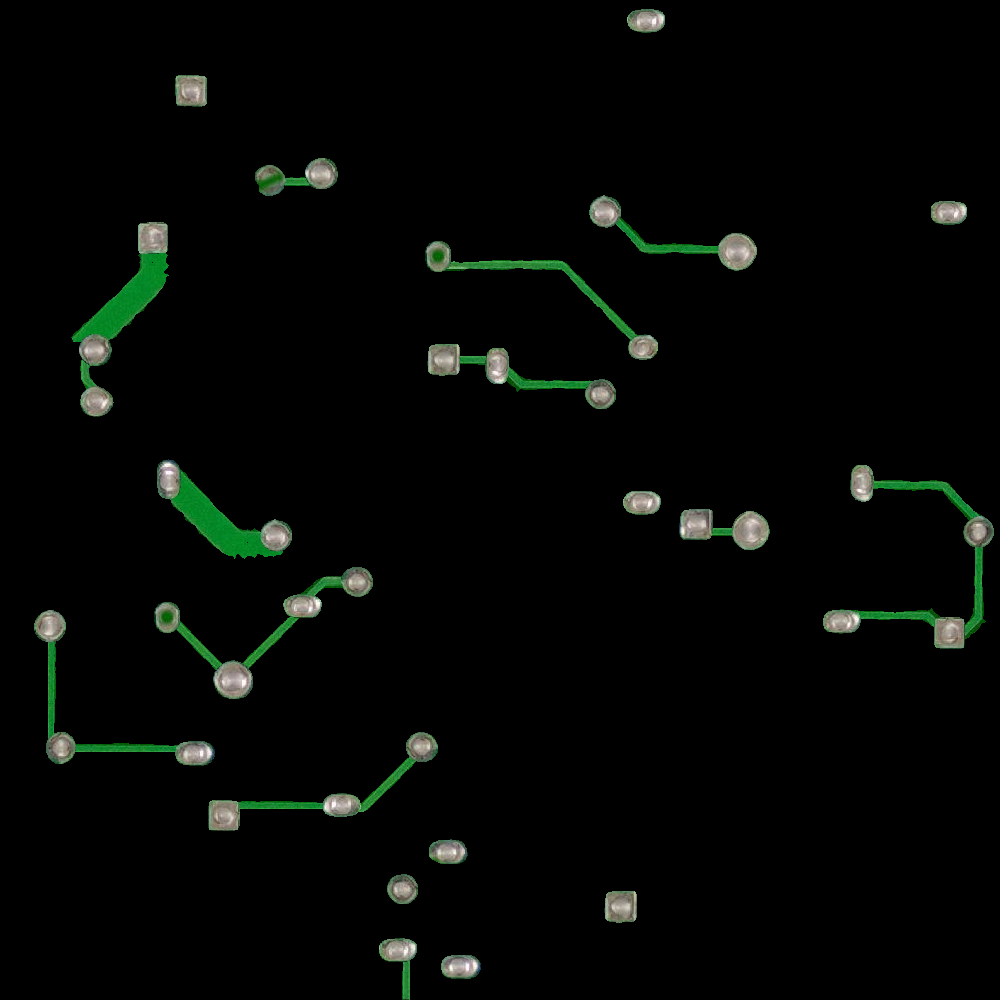
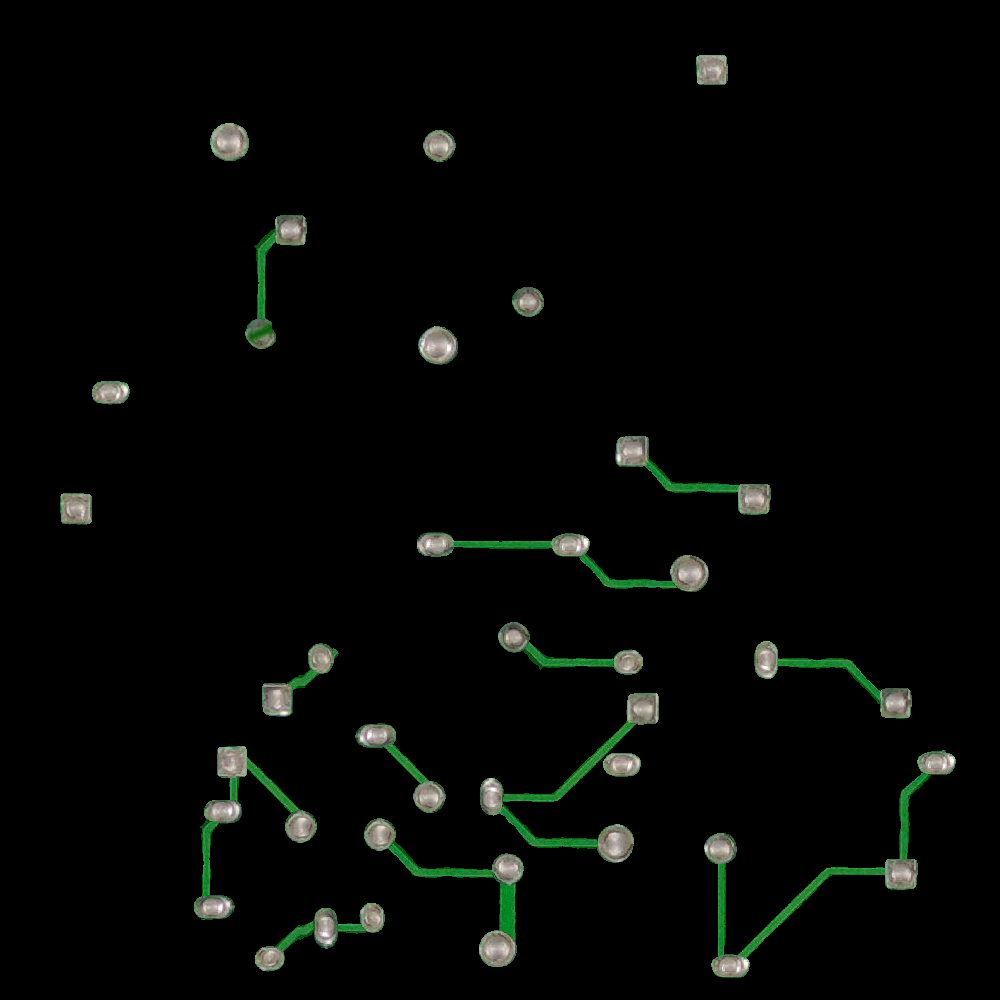
fixed padding

diff --git a/placement_engine.py b/placement_engine.py
@@ -122,6 +122,25 @@ def _bbox_from_mask(mask: np.ndarray):
     return xs.min(), ys.min(), xs.max(), ys.max()  # x1,y1,x2,y2
 
 
+def _fits_inside_edge_padding(mask: np.ndarray, canvas_shape: tuple[int, int], edge_padding: int) -> bool:
+    padding = max(0, int(edge_padding))
+    if padding <= 0:
+        return cv2.countNonZero(mask) > 0
+
+    bbox = _bbox_from_mask(mask)
+    if bbox is None:
+        return False
+
+    x1, y1, x2, y2 = bbox
+    h, w = canvas_shape
+    return (
+        x1 >= padding and
+        y1 >= padding and
+        x2 <= (w - 1 - padding) and
+        y2 <= (h - 1 - padding)
+    )
+
+
 def _ensure_pad_attach_cache(pad: PadInstance):
     if getattr(pad, "_attach_cache_ready", False):
         return
@@ -176,13 +195,16 @@ def place_pad_random(
     padding: int = 10,
     min_asset_distance: int = 5,
     max_tries: int = 50):
-    
+    edge_padding = max(0, int(padding))
+    if canvas.w - edge_padding <= edge_padding or canvas.h - edge_padding <= edge_padding:
+        return None
+
     for _ in range(max_tries):
         # angle = random.choice([0, 90, 180, 270])
         angle = 0
 
-        tx = np.random.randint(padding, canvas.w - padding)
-        ty = np.random.randint(padding, canvas.h - padding)
+        tx = np.random.randint(edge_padding, canvas.w - edge_padding)
+        ty = np.random.randint(edge_padding, canvas.h - edge_padding)
 
         mask_world, M = transform_mask(
             pad_asset.mask,
@@ -206,6 +228,9 @@ def place_pad_random(
             raise ValueError(f"Unsupported mask dimensionality: {mask_world.ndim}D (shape: {mask_world.shape})")
 
         mask_world_u8 = (mask_world > 0).astype(np.uint8)
+        if not _fits_inside_edge_padding(mask_world_u8, (canvas.h, canvas.w), edge_padding):
+            continue
+
         if check_collision(canvas.occupied_mask, mask_world_u8):
             continue
 
@@ -263,7 +288,8 @@ def place_pad_attached_to_open_end(
     next_pad_id: int,
     angles=(0, 90, 180, 270),
     max_attempts: int = 20,
-    require_touch: bool = True
+    require_touch: bool = True,
+    edge_padding: int = 0,
 ):
     """
     Пытается разместить pad так, чтобы он приклеился к open_end (концу существующего трейса).
@@ -317,6 +343,9 @@ def place_pad_attached_to_open_end(
         pad_mask_world_u8 = (pad_mask_world > 0).astype(np.uint8)  # 0/1
 
         if cv2.countNonZero(pad_mask_world_u8) == 0:
+            continue
+
+        if not _fits_inside_edge_padding(pad_mask_world_u8, canvas_shape, edge_padding):
             continue
 
         # 1) Требуем контакт с трейсом (иначе можно “приклеить” рядом)
@@ -519,7 +548,8 @@ def place_trace_attached_to_specific_pad(
     angles=(0, 90, 180, 270),
     max_attempts: int = 20,
     require_touch: bool = True,
-    pad_boundary_mix: float = 0.65
+    pad_boundary_mix: float = 0.65,
+    edge_padding: int = 0,
 ):
     """
     Пытается приклеить trace_asset к конкретному pad_instance.
@@ -566,6 +596,9 @@ def place_trace_attached_to_specific_pad(
             continue
         mask_world_u8 = (mask_world > 0).astype(np.uint8)
         if cv2.countNonZero(mask_world_u8) == 0:
+            continue
+
+        if not _fits_inside_edge_padding(mask_world_u8, canvas_shape, edge_padding):
             continue
 
         # endpoints world
@@ -628,6 +661,7 @@ def place_trace_attached_to_pad(
     angles=(0, 90, 180, 270),
     max_attempts_pad_pick: int = 20,
     max_attempts_attach: int = 20,
+    edge_padding: int = 0,
 ):
     """
     Старая семантика: сам выбирает валидный pad и пытается к нему приклеить trace.
@@ -641,7 +675,8 @@ def place_trace_attached_to_pad(
             trace_asset,
             pad,
             angles=angles,
-            max_attempts=max_attempts_attach
+            max_attempts=max_attempts_attach,
+            edge_padding=edge_padding,
         )
         if inst is not None:
             return inst, ep_idx

diff --git a/generator.py b/generator.py
@@ -54,7 +54,8 @@ def generate_layout_by_coverage(
         pad=p0,
         open_ends=open_ends,
         next_trace_id=next_trace_id,
-        require_touch=True
+        require_touch=True,
+        edge_padding=padding,
     )
     if t0 is not None:
         traces_by_id[t0.id] = t0
@@ -95,7 +96,8 @@ def generate_layout_by_coverage(
                 next_pad_id=next_pad_id,
                 angles=(0, 90, 180, 270),
                 max_attempts=20,
-                require_touch=True
+                require_touch=True,
+                edge_padding=padding,
             )
             if p_new is not None:
                 next_pad_id = next_pad_id2
@@ -114,7 +116,8 @@ def generate_layout_by_coverage(
             pad=pad,
             open_ends=open_ends,
             next_trace_id=next_trace_id,
-            require_touch=True
+            require_touch=True,
+            edge_padding=padding,
         )
         if t is not None:
             traces_by_id[t.id] = t
@@ -141,7 +144,8 @@ def generate_layout_by_coverage(
                 next_pad_id=next_pad_id,
                 angles=(0, 90, 180, 270),
                 max_attempts=20,
-                require_touch=True
+                require_touch=True,
+                edge_padding=padding,
             )
             if p_new is not None:
                 next_pad_id = next_pad_id2
@@ -261,6 +265,7 @@ def _try_place_single_path(
                 next_trace_id=next_trace_id,
                 require_touch=True,
                 pad_boundary_mix=0.65,
+                edge_padding=padding,
             )
             if t is None:
                 _restore_canvas(canvas, segment_snapshot)
@@ -299,6 +304,7 @@ def _try_place_single_path(
                     angles=(0, 90, 180, 270),
                     max_attempts=20,
                     require_touch=True,
+                    edge_padding=padding,
                 )
                 if p_inst is not None:
                     new_pad = p_inst
